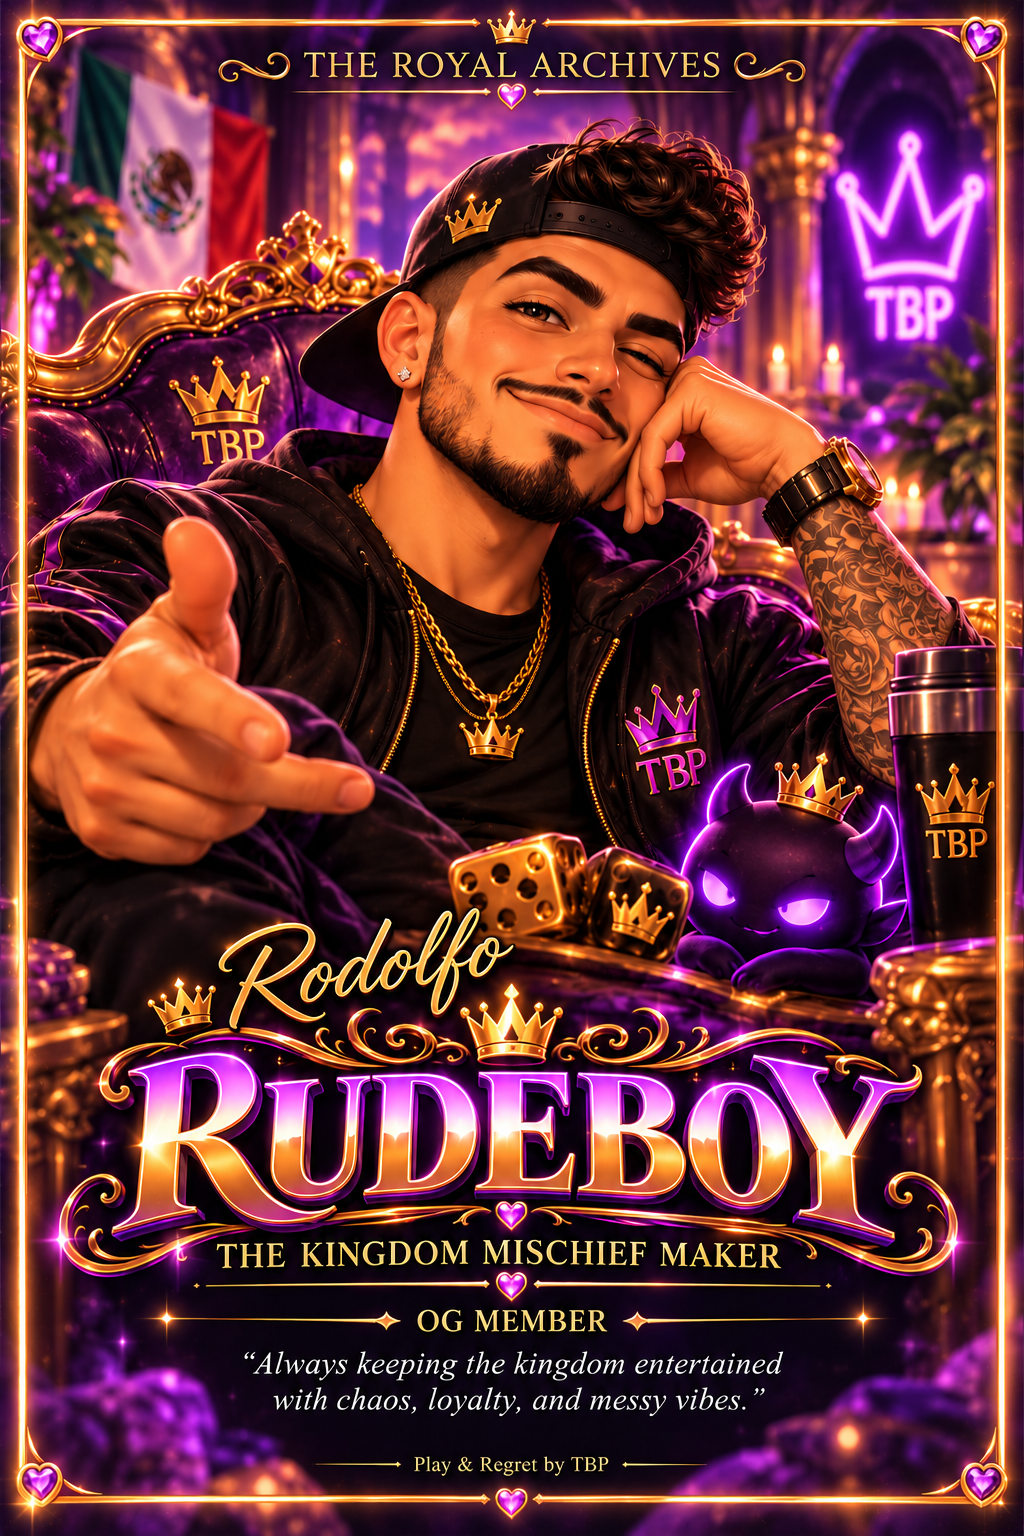
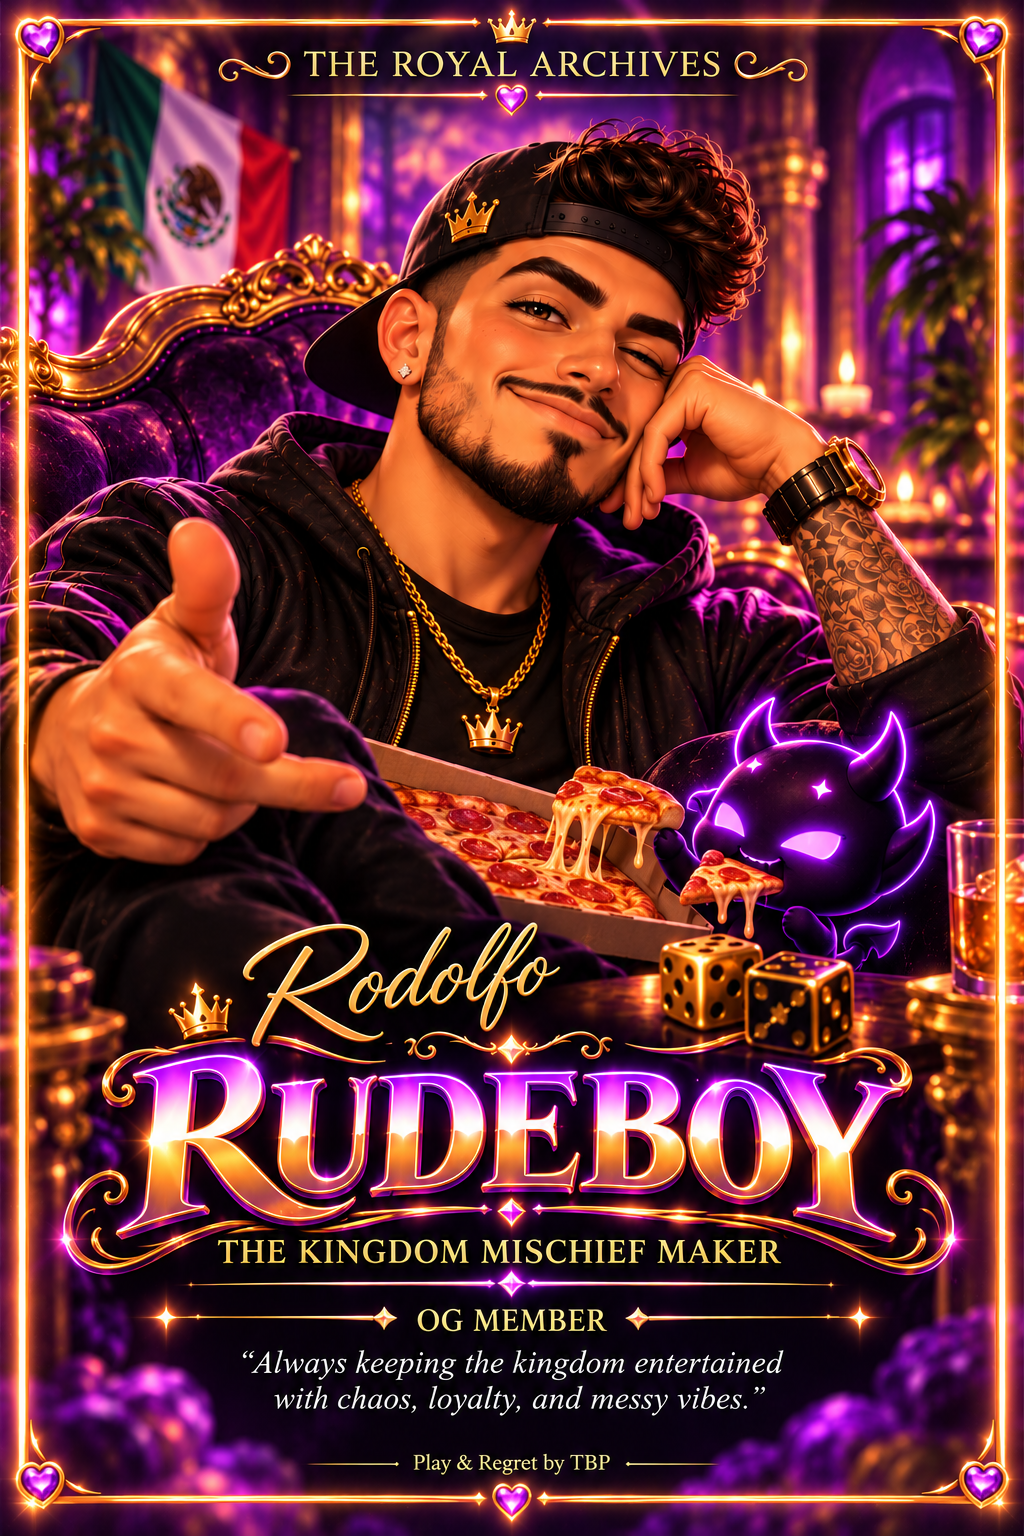
Collector C#011: new Rudeboy card art, name Rodolfo
Claude-Session: https://claude.ai/code/session_01PC19hQBjkHxLeMQn3pRncV

diff --git a/src/games/dropzone/monsters.js b/src/games/dropzone/monsters.js
@@ -174,7 +174,7 @@ const COLLECTOR = [
   { id: 'yasmin',   number: 8, name: 'Yasmin',             title: 'The Royal Creator · Game Host',            flavorText: 'Turning creativity and kindness into magic for the kingdom.' },
   { id: 'nicole',   number: 9, name: 'Nicole',             title: 'The Royal Enigma · Game Host',             flavorText: 'A unique spirit who brings mystery and personality to TBP.' },
   { id: 'mariela',  number: 10, name: 'Mariela',            title: 'The Unofficial Authority · Royal Legacy',  flavorText: 'She retired from staff, but never from the kingdom.' },
-  { id: 'rudeboy',  number: 11, name: 'Rudeboy',            title: 'The Kingdom Mischief Maker · OG Member',   flavorText: 'Always keeping the kingdom entertained with chaos, loyalty, and messy vibes.' },
+  { id: 'rudeboy',  number: 11, name: 'Rodolfo',            title: 'The Kingdom Mischief Maker · OG Member',   flavorText: 'Always keeping the kingdom entertained with chaos, loyalty, and messy vibes.' },
 ];
 function collectorDefaults(list) {
   return list.map(m => ({
